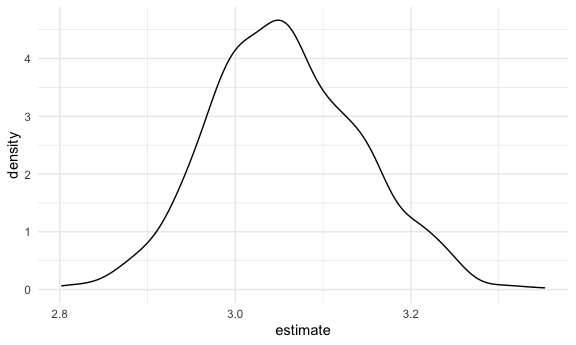
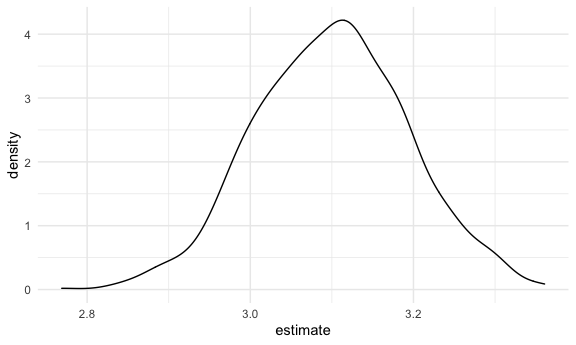
finish bootstrap

diff --git a/bootstrapping.md b/bootstrapping.md
@@ -18,6 +18,7 @@ library(tidyverse)
 
 ``` r
 library(modelr)
+library(p8105.datasets)
 
 knitr::opts_chunk$set(
   fig.width = 6,
@@ -85,8 +86,8 @@ lm(y ~ x, data = sim_df_const) %>% broom::tidy()
     ## # A tibble: 2 x 5
     ##   term        estimate std.error statistic   p.value
     ##   <chr>          <dbl>     <dbl>     <dbl>     <dbl>
-    ## 1 (Intercept)     1.99    0.0886      22.5 8.04e- 62
-    ## 2 x               3.05    0.0638      47.7 5.41e-127
+    ## 1 (Intercept)     2.01    0.0881      22.8 9.65e- 63
+    ## 2 x               2.99    0.0587      51.0 1.54e-133
 
 ``` r
 lm(y ~ x, data = sim_df_nonconst) %>% broom::tidy()
@@ -95,8 +96,8 @@ lm(y ~ x, data = sim_df_nonconst) %>% broom::tidy()
     ## # A tibble: 2 x 5
     ##   term        estimate std.error statistic   p.value
     ##   <chr>          <dbl>     <dbl>     <dbl>     <dbl>
-    ## 1 (Intercept)     2.01    0.0890      22.6 4.02e- 62
-    ## 2 x               3.06    0.0641      47.7 7.87e-127
+    ## 1 (Intercept)     1.89    0.0982      19.2 5.04e- 51
+    ## 2 x               3.10    0.0654      47.4 3.04e-126
 
 ## Draw one bootstrap sample
 
@@ -119,6 +120,10 @@ boot_sample(sim_df_nonconst) %>%  #把 sim_df_nonconst 代入function中的df
 
     ## `geom_smooth()` using formula 'y ~ x'
 
+    ## Warning: Removed 1 rows containing non-finite values (stat_smooth).
+
+    ## Warning: Removed 1 rows containing missing values (geom_point).
+
 <img src="bootstrapping_files/figure-gfm/unnamed-chunk-5-1.png" width="90%" />
 
 ``` r
@@ -130,8 +135,8 @@ boot_sample(sim_df_nonconst) %>%
     ## # A tibble: 2 x 5
     ##   term        estimate std.error statistic   p.value
     ##   <chr>          <dbl>     <dbl>     <dbl>     <dbl>
-    ## 1 (Intercept)     1.96    0.100       19.6 3.11e- 52
-    ## 2 x               3.06    0.0696      44.0 4.72e-119
+    ## 1 (Intercept)     2.01    0.0843      23.8 5.96e- 66
+    ## 2 x               3.01    0.0564      53.3 7.49e-138
 
 ## Many samples and analysis
 
@@ -172,8 +177,8 @@ boot_results %>%
     ## # A tibble: 2 x 3
     ##   term        mean_est sd_est
     ##   <chr>          <dbl>  <dbl>
-    ## 1 (Intercept)     2.01 0.0506
-    ## 2 x               3.06 0.0859
+    ## 1 (Intercept)     1.89 0.0685
+    ## 2 x               3.10 0.0931
 
 Look at the distributions
 
@@ -202,8 +207,8 @@ boot_results %>%
     ## # A tibble: 2 x 3
     ##   term        ci_lower ci_upper
     ##   <chr>          <dbl>    <dbl>
-    ## 1 (Intercept)     1.91     2.10
-    ## 2 x               2.89     3.23
+    ## 1 (Intercept)     1.76     2.03
+    ## 2 x               2.92     3.29
 
 ## Bootstrap using modelr
 
@@ -230,5 +235,84 @@ sim_df_nonconst %>% #change the datasets also works for the same codes
     ## # A tibble: 2 x 3
     ##   term        mean_est sd_est
     ##   <chr>          <dbl>  <dbl>
-    ## 1 (Intercept)     2.01 0.0498
-    ## 2 x               3.05 0.0851
+    ## 1 (Intercept)     1.89 0.0649
+    ## 2 x               3.10 0.0919
+
+## Revisit nyc airbnb
+
+``` r
+data("nyc_airbnb")
+
+nyc_airbnb = 
+  nyc_airbnb %>% 
+  mutate(stars = review_scores_location / 2) %>% 
+  rename(
+    borough = neighbourhood_group,
+    neighborhood = neighbourhood) %>% 
+  filter(borough != "Staten Island") %>% 
+  select(price, stars, borough, neighborhood, room_type)
+```
+
+``` r
+nyc_airbnb %>% 
+  ggplot(aes(x = stars, y =price)) +
+  geom_point()
+```
+
+    ## Warning: Removed 9962 rows containing missing values (geom_point).
+
+<img src="bootstrapping_files/figure-gfm/unnamed-chunk-14-1.png" width="90%" />
+
+``` r
+airbnb_boot_results =
+nyc_airbnb %>% 
+  filter(borough == "Manhattan") %>% 
+  drop_na(stars)%>% 
+  bootstrap(1000, id = "strap_number") %>% 
+    mutate(
+    models = map(.x = strap, ~lm(price ~ stars, data = .x)),
+    results = map(models, broom::tidy)
+  ) %>% 
+  select(strap_number, results) %>% 
+  unnest(results)
+
+airbnb_boot_results %>% 
+  group_by(term) %>% 
+    summarize(
+      mean_est = mean(estimate),
+      sd_est = sd(estimate)
+    )
+```
+
+    ## `summarise()` ungrouping output (override with `.groups` argument)
+
+    ## # A tibble: 2 x 3
+    ##   term        mean_est sd_est
+    ##   <chr>          <dbl>  <dbl>
+    ## 1 (Intercept)    -33.7  33.2 
+    ## 2 stars           43.2   6.75
+
+Compare this to `lm`
+
+``` r
+nyc_airbnb %>% 
+  filter(borough == "Manhattan") %>% 
+  drop_na(stars)%>% 
+  lm(price ~ stars, data = .) %>%  #with this dataset
+  broom::tidy()
+```
+
+    ## # A tibble: 2 x 5
+    ##   term        estimate std.error statistic  p.value
+    ##   <chr>          <dbl>     <dbl>     <dbl>    <dbl>
+    ## 1 (Intercept)    -34.3     22.9      -1.50 1.35e- 1
+    ## 2 stars           43.3      4.78      9.07 1.39e-19
+
+``` r
+airbnb_boot_results %>% 
+  filter(term == "stars") %>% 
+  ggplot(aes(x = estimate)) +
+  geom_density()
+```
+
+<img src="bootstrapping_files/figure-gfm/unnamed-chunk-17-1.png" width="90%" />
